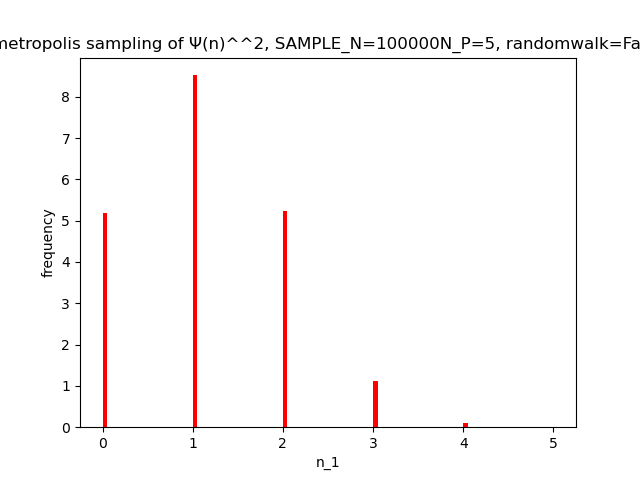
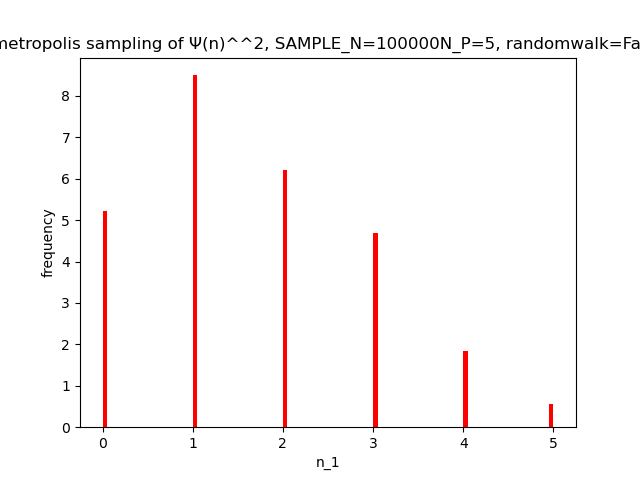
メトロポリス法確認完了、グラフ添付

diff --git a/Bose-Hubbard/program_check.py b/Bose-Hubbard/program_check.py
@@ -33,7 +33,7 @@ def metropolis(calc_p, randomwalk=False, sample_n = params.SAMPLE_N, M = params.
     while idn < sample_n:
         if randomwalk:
             new_n_vec = n_vec + rng.integers(-np.floor(params.N_P/2), np.floor(params.N_P/2), M, endpoint=True)
-            if (n_vec < 0) or (params.N_P < n_vec):
+            if np.any(new_n_vec < 0) or np.any(params.N_P < new_n_vec):
                 n_vec = rng.integers(0, params.N_P, M, endpoint=True)
                 p = calc_p(n_vec)
                 continue
@@ -48,7 +48,7 @@ def metropolis(calc_p, randomwalk=False, sample_n = params.SAMPLE_N, M = params.
     return nlist
 
 randomwalk = False
-metro = metropolis(calc_train_psi, randomwalk=False, sample_n = params.SAMPLE_N, M = params.M)
+metro = metropolis(calc_train_psi, randomwalk, sample_n = params.SAMPLE_N, M = params.M)
 print(metro.shape)
 
 x = np.arange(0, params.SAMPLE_N)
